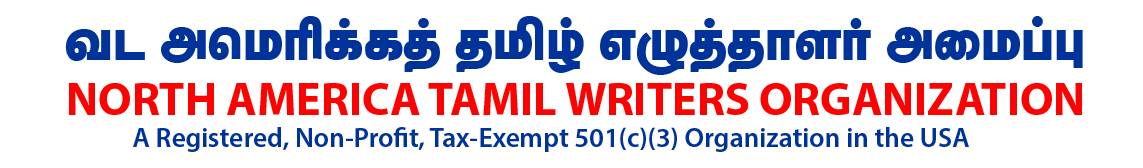
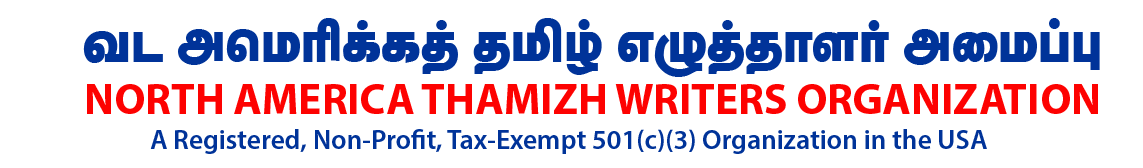
Thamizh

Changed region(s): [[0.0306, 0.0893, 0.9799, 0.6845], [0.0919, 0.744, 0.888, 0.9226]]

diff --git a/src/pages/About.tsx b/src/pages/About.tsx
@@ -96,7 +96,7 @@ export default function About() {
     {
       name: 'Dr. Arasu Chelliah',
       role: 'Global Ambassador - USA',
-      bio: 'முனைவர் அரசு செல்லையா, எழுத்தாளர், தமிழ்க் கல்வியாளர், அமெரிக்க அதிபர் விருது பெற்றவர், Founder President of American Tamil Academy, Former President of FeTNA, <strong>Maryland, USA </strong>',
+      bio: 'முனைவர் அரசு செல்லையா, எழுத்தாளர், தமிழ்க் கல்வியாளர், அமெரிக்க அதிபர் விருது பெற்றவர், Founder President of American Thamizh Academy, Former President of FeTNA, <strong>Maryland, USA </strong>',
       image: '/lovable-uploads/28.jpg',
     },
   ];
@@ -147,13 +147,13 @@ export default function About() {
     {
       name: 'Kalaimamani Dr. Cheyon I.B.S.',
       role: 'Global Ambassador - India',
-      bio: 'Former Director, All India Radio, MTS Academy, இலக்கியவாதி, தமிழ்க் கல்வியாளர், எழுத்தாளர், <strong>Tamil Nadu, India </strong>',
+      bio: 'Former Director, All India Radio, MTS Academy, இலக்கியவாதி, தமிழ்க் கல்வியாளர், எழுத்தாளர், <strong>Thamizh Nadu, India </strong>',
       image: '/lovable-uploads/22.jpg',
     },
     {
       name: 'Prof. Dr. K. Thilagavathi',
       role: 'Global Ambassador - India',
-      bio: 'Former Director / Head Tamil Cultural Center, சங்க இலக்கிய ஆராய்ச்சியாளர், உரையாளர், சங்க இலக்கியப் பொருட் களஞ்சியத்தை உருவாக்கியவர், தமிழகப் புலவர்குழு உறுப்பினர், தமிழ் வளர்ச்சிக்கழக உறுப்பினர், மயிலைத் திருவள்ளுவர் தமிழ்ச்சங்க இணைச்செயலாளர், Tamil University, Thanjavur, <strong>Tamil Nadu, India </strong>',
+      bio: 'Former Director / Head Thamizh Cultural Center, சங்க இலக்கிய ஆராய்ச்சியாளர், உரையாளர், சங்க இலக்கியப் பொருட் களஞ்சியத்தை உருவாக்கியவர், தமிழகப் புலவர்குழு உறுப்பினர், தமிழ் வளர்ச்சிக்கழக உறுப்பினர், மயிலைத் திருவள்ளுவர் தமிழ்ச்சங்க இணைச்செயலாளர், Thamizh University, Thanjavur, <strong>Thamizh Nadu, India </strong>',
       image: '/lovable-uploads/14.jpg',
     },
     {
@@ -171,13 +171,13 @@ export default function About() {
     {
       name: 'கவிஞர் விஜயகிருஷ்ணன்',
       role: 'Global Ambassador - India',
-      bio: 'நெறியாளர், தூர்தர்ஷன் தமிழ்; துணைச்செயலாளர், சென்னை கம்பன் கழகம்; வங்கியாளர்; கிராமவளர் பணியாளர், <strong>Tamil Nadu,  India</strong>',
+      bio: 'நெறியாளர், தூர்தர்ஷன் தமிழ்; துணைச்செயலாளர், சென்னை கம்பன் கழகம்; வங்கியாளர்; கிராமவளர் பணியாளர், <strong>Thamizh Nadu,  India</strong>',
       image: '/lovable-uploads/17.jpg',
     },
     {
       name: 'Dr. A. Alaguselvam (Alaguannavi)',
       role: 'Global Ambassador - India',
-      bio: 'Head, Department of Tamil, Government Arts and science college, Aruppukottai, தமிழ் மரபுக்கலைகள் பயிற்றுநர்/பரப்புநர், <strong>Tamil Nadu, India </strong>',
+      bio: 'Head, Department of Thamizh, Government Arts and science college, Aruppukottai, தமிழ் மரபுக்கலைகள் பயிற்றுநர்/பரப்புநர், <strong>Thamizh Nadu, India </strong>',
       image: '/lovable-uploads/18.jpg',
     },
     {
@@ -225,7 +225,7 @@ export default function About() {
     },
     {
       year: 2019,
-      event: 'First Annual Tamil Literary Festival',
+      event: 'First Annual Thamizh Literary Festival',
     },
     {
       year: 2020,
@@ -279,7 +279,7 @@ export default function About() {
             <div className="prose max-w-none">
               <p className="text-lg leading-relaxed">
                 {t(
-                  'Tamil literature is a bridge between the past and the future, a voice of identity, culture, and creative expression. North America Tamil Writers Organization (NATAWO) is committed to nurturing and celebrating Tamil literary traditions in North America by providing a dynamic platform for Tamil writers to express their creativity, refine their craft, and share their works with a wider audience.',
+                  'Thamizh literature is a bridge between the past and the future, a voice of identity, culture, and creative expression. North America Thamizh Writers Organization (NATAWO) is committed to nurturing and celebrating Thamizh literary traditions in North America by providing a dynamic platform for Thamizh writers to express their creativity, refine their craft, and share their works with a wider audience.',
                   'தமிழ் இலக்கியம் என்பது கடந்த காலத்திற்கும் எதிர்காலத்திற்கும் இடையேயான பாலம், அடையாளம், கலாச்சாரம் மற்றும் படைப்பாற்றல் வெளிப்பாட்டின் குரல். வட அமெரிக்க தமிழ் எழுத்தாளர்கள் அமைப்பு (நடவு) வட அமெரிக்காவில் தமிழ் இலக்கிய மரபுகளை வளர்த்து, கொண்டாடுவதற்காக அர்ப்பணிப்புடன் செயல்படுகிறது. தமிழ் எழுத்தாளர்கள் தங்கள் படைப்பாற்றலை வெளிப்படுத்தவும், தங்கள் திறமையை மெருகேற்றவும், தங்கள் படைப்புகளை பரந்த வாசகர்களுடன் பகிர்ந்து கொள்ளவும் ஒரு இயங்குமிக்க தளத்தை வழங்குகிறது.'
                 )}
               </p>
@@ -289,7 +289,7 @@ export default function About() {
               </h2>
               <p className="text-lg leading-relaxed">
                 {t(
-                  'To nurture and celebrate Tamil literature and culture in North America by inspiring a global community of Tamil writers, fostering creativity, and preserving the rich heritage of the Tamil language promotes cultural identity and literary enhancement for Tamil diaspora children.',
+                  'To nurture and celebrate Thamizh literature and culture in North America by inspiring a global community of Thamizh writers, fostering creativity, and preserving the rich heritage of the Thamizh language promotes cultural identity and literary enhancement for Thamizh diaspora children.',
                   'வட அமெரிக்காவில் தமிழ் இலக்கியம் மற்றும் கலாச்சாரத்தை வளர்த்து, கொண்டாட, உலகளாவிய தமிழ் எழுத்தாளர்கள் சமூகத்தை ஊக்குவித்து, படைப்பாற்றலை வளர்த்து, தமிழ் மொழியின் செழுமையான பாரம்பரியத்தைப் பாதுகாத்து, தமிழ் புலம்பெயர் குழந்தைகளுக்கான கலாச்சார அடையாளம் மற்றும் இலக்கிய மேம்பாட்டை ஊக்குவிப்பது.'
                 )}
               </p>
@@ -300,19 +300,19 @@ export default function About() {
               <ul className="space-y-4 list-disc pl-6">
                 <li>
                   {t(
-                    'Empower Tamil Writers: Provide a supportive platform for aspiring and established Tamil writers in North America to express their ideas, refine their craft, and achieve global recognition.',
+                    'Empower Thamizh Writers: Provide a supportive platform for aspiring and established Thamizh writers in North America to express their ideas, refine their craft, and achieve global recognition.',
                     'தமிழ் எழுத்தாளர்களை மேம்படுத்துதல்: வட அமெரிக்காவில் உள்ள ஆர்வமுள்ள மற்றும் நிலைபெற்ற தமிழ் எழுத்தாளர்கள் தங்கள் கருத்துக்களை வெளிப்படு, தங்கள் திறமையை மெருகேற்ற மற்றும் உலகளாவிய அங்கீகாரத்தைப் பெற ஆதரவான தளத்தை வழங்குதல்.'
                   )}
                 </li>
                 <li>
                   {t(
-                    'Promote Tamil Literature: Encourage the creation, dissemination, and appreciation of Tamil literary works across diverse genres and styles.',
+                    'Promote Thamizh Literature: Encourage the creation, dissemination, and appreciation of Thamizh literary works across diverse genres and styles.',
                     'தமிழ் இலக்கியத்தை ஊக்குவித்தல்: பல்வேறு வகைகள் மற்றும் பாணிகளில் தமிழ் இலக்கியப் படைப்புகளின் உருவாக்கம், பரவல் மற்றும் பாராட்டுதலை ஊக்குவித்தல்.'
                   )}
                 </li>
                 <li>
                   {t(
-                    'Preserve Heritage: Uphold the timeless traditions and values of Tamil language and culture while adapting to contemporary themes and expressions.',
+                    'Preserve Heritage: Uphold the timeless traditions and values of Thamizh language and culture while adapting to contemporary themes and expressions.',
                     'பாரம்பரியத்தைப் பாதுகாத்தல்: சமகால கருப்பொருள்கள் மற்றும் வெளிப்பாடுகளுக்கு ஏற்ப மாறும் அதே வேளையில் தமிழ் மொழி மற்றும் கலாச்சாரத்தின் காலத்தால் அழியாத மரபுகள் மற்றும் மதிப்புகளைப் பேணுதல்.'
                   )}
                 </li>
@@ -324,7 +324,7 @@ export default function About() {
                 </li>
                 <li>
                   {t(
-                    'Bridge Generations: Inspire younger generations to embrace Tamil as a medium of creativity, writing and cultural expression through innovative programs and mentorship opportunities. Be a bridge between Tamil Writers and North American literary publishers and libraries to bring the Tamil language into the mainstream in North America.',
+                    'Bridge Generations: Inspire younger generations to embrace Thamizh as a medium of creativity, writing and cultural expression through innovative programs and mentorship opportunities. Be a bridge between Thamizh Writers and North American literary publishers and libraries to bring the Thamizh language into the mainstream in North America.',
                     'தலைமுறைகளை இணைத்தல்: புத்தாக்க திட்டங்கள் மற்றும் வழிகாட்டல் வாய்ப்புகள் மூலம் இளைய தலைமுறையினர் தமிழை படைப்பாற்றல், எழுது மற்றும் கலாச்சார வெளிப்பாட்டின் ஊடகமாக ஏற்றுக்கொள்ள ஊக்குவித்தல். வட அமெரிக்காவில் தமிழ் மொழியை முக்கிய நீரோட்டத்திற்கு கொண்டு வர தமிழ் எழுத்தாளர்களுக்கும் வட அமெரிக்க இலக்கிய பதிப்பகங்கள் மற்றும் நூலகங்களுக்கும் இடையே பாலமாக இருத்தல்.'
                   )}
                 </li>
@@ -349,7 +349,7 @@ export default function About() {
               </h3>
               <p className="text-lg leading-relaxed">
                 {t(
-                  'NATAWO is a non-profit, non-partisan, and secular organization dedicated to promoting Tamil literary expression, education, and cultural identity in North America. We aim to provide Tamil writers with the resources, opportunities, and networks they need to thrive in a global literary environment.',
+                  'NATAWO is a non-profit, non-partisan, and secular organization dedicated to promoting Thamizh literary expression, education, and cultural identity in North America. We aim to provide Thamizh writers with the resources, opportunities, and networks they need to thrive in a global literary environment.',
                   'நடவு என்பது வட அமெரிக்காவில் தமிழ் இலக்கிய வெளிப்பாடு, கல்வி மற்றும் கலாச்சார அடையாளத்தை மேம்படுத்துவதற்காக அர்ப்பணிக்கப்பட்ட இலாப நோக்கற்ற, கட்சி சார்பற்ற மற்றும் மதச்சார்பற்ற அமைப்பாகும். உலகளாவிய இலக்கியச் சூழலில் செழிக்க தமிழ் எழுத்தாளர்கள் சமூகத்தை ஊக்குவித்து, படைப்பாற்றலை வளர்த்து, தமிழ் மொழியை மெருகேற்ற மற்றும் உலகளாவிய அங்கீகாரத்தைப் பெற ஆதரவான தளத்தை வழங்குதல்.'
                 )}
               </p>
@@ -361,7 +361,7 @@ export default function About() {
               </h3>
               <p className="text-lg leading-relaxed">
                 {t(
-                  "NATAWO is led by a dedicated Board of Coordinators, Bylaws Committee and Global Ambassadors composed of Tamil writers, scholars, educators, and community leaders. The leadership team is responsible for shaping the organization's strategic direction, ensuring financial transparency, and fostering a culture of inclusivity and innovation.",
+                  "NATAWO is led by a dedicated Board of Coordinators, Bylaws Committee and Global Ambassadors composed of Thamizh writers, scholars, educators, and community leaders. The leadership team is responsible for shaping the organization's strategic direction, ensuring financial transparency, and fostering a culture of inclusivity and innovation.",
                   'நடவு அமைப்பானது தமிழ் எழுத்தாளர்கள், அறிஞர்கள், கல்வியாளர்கள் மற்றும் சமூகத் தலைவர்களைக் கொண்ட அர்ப்பணிப்புள்ள ஒருங்கிணைப்பாளர்கள் குழு, விதிமுறைகள் குழு மற்றும் உலகளாவிய தூதுவர்களால் வழிநடத்தப்படுகிறது. அமைப்பின் மூலோபாய திசையை வடிவமைப்பது, நிதி வெளிப்படைத்தன்மையை உறுதி செய்வது மற்றும் உள்ளடக்கம் மற்றும் புத்தாக்கக் கலாச்சாரத்தை வளர்ப்பது தலைமைக் குழுவின் பொறுப்பாகும்.'
                 )}
               </p>
@@ -380,7 +380,7 @@ export default function About() {
                     </h4>
                     <p>
                       {t(
-                        'Encouraging diverse forms of Tamil literary expression.',
+                        'Encouraging diverse forms of Thamizh literary expression.',
                         'தமிழ் இலக்கிய வெளிப்பாட்டின் பல்வேறு வடிவங்களை ஊக்குவித்தல்.'
                       )}
                     </p>
@@ -395,7 +395,7 @@ export default function About() {
                     </h4>
                     <p>
                       {t(
-                        'Safeguarding and promoting Tamil literary heritage.',
+                        'Safeguarding and promoting Thamizh literary heritage.',
                         'தமிழ் இலக்கிய பாரம்பரியத்தைப் பாதுகாத்து மேம்படுத்துதல்.'
                       )}
                     </p>
@@ -425,7 +425,7 @@ export default function About() {
                     </h4>
                     <p>
                       {t(
-                        'Welcoming Tamil writers from all backgrounds and experiences.',
+                        'Welcoming Thamizh writers from all backgrounds and experiences.',
                         'அனைத்து பின்னணி மற்றும் அனுபவங்களைக் கொண்ட தமிழ் எழுத்தாளர்களை வரவேற்றல்.'
                       )}
                     </p>
@@ -440,7 +440,7 @@ export default function About() {
                     </h4>
                     <p>
                       {t(
-                        'Using modern platforms to enhance Tamil literary engagement.',
+                        'Using modern platforms to enhance Thamizh literary engagement.',
                         'தமிழ் இலக்கிய ஈடுபாட்டை மேம்படுத்த நவீன தளங்களைப் பயன்படுத்துதல்.'
                       )}
                     </p>
@@ -463,19 +463,19 @@ export default function About() {
               <div>
                 <h3 className="text-xl font-semibold mb-4">
                   {t(
-                    'A Legacy Rooted in Tamil Literary Passion',
+                    'A Legacy Rooted in Thamizh Literary Passion',
                     'தமிழ் இலக்கிய ஆர்வத்தில் வேரூன்றிய மரபு'
                   )}
                 </h3>
                 <p className="text-lg leading-relaxed">
                   {t(
-                    'Tamil literature has thrived for over 2,000 years, evolving through poetry, epics, short stories, and modern storytelling. As Tamil communities flourished in North America, writers sought a dedicated space to share their work, collaborate, and find publishing opportunities.',
+                    'Thamizh literature has thrived for over 2,000 years, evolving through poetry, epics, short stories, and modern storytelling. As Thamizh communities flourished in North America, writers sought a dedicated space to share their work, collaborate, and find publishing opportunities.',
                     'தமிழ் இலக்கியம் 2,000 ஆண்டுகளுக்கும் மேலாக கவிதை, காவியங்கள், சிறுகதைகள் மற்றும் நவீன கதை சொல்லல் வழியாக வளர்ந்து வந்துள்ளது. வட அமெரிக்காவில் தமிழ் சமூகங்கள் செழித்தோங்கியதால், எழுத்தாளர்கள் தங்கள் படைப்புகளைப் பகிர்ந்து கொள்ள, ஒத்துழைக்க மற்றும் பதிப்பிக்கும் வாய்ப்புகளைக் கண்டறிய ஒரு அர்ப்பணிக்கப்பட்ட இடத்தைத் தேடினர்.'
                   )}
                 </p>
                 <p className="text-lg leading-relaxed mt-4">
                   {t(
-                    'Recognizing this need, a group of passionate Tamil literary enthusiasts founded North America Tamil Writers Incorporated to provide a structured platform for Tamil writers. Since its inception, NATAWO has grown into a respected institution, hosting literary events, mentorship programs, and collaborations that celebrate Tamil storytelling.',
+                    'Recognizing this need, a group of passionate Thamizh literary enthusiasts founded North America Thamizh Writers Incorporated to provide a structured platform for Thamizh writers. Since its inception, NATAWO has grown into a respected institution, hosting literary events, mentorship programs, and collaborations that celebrate Thamizh storytelling.',
                     'இந்த தேவையை உணர்ந்து, ஆர்வமுள்ள தமிழ் இலக்கிய ஆர்வலர்கள் குழு தமிழ் எழுத்தாளர்களுக்கு ஒரு கட்டமைக்கப்பட்ட தளத்தை வழங்க வட அமெரிக்க தமிழ் எழுத்தாளர்கள் நிறுவனத்தை நிறுவினர். தொடக்கம் முதல், நடவு தமிழ் கதை சொல்லலைக் கொண்டாடும் இலக்கிய நிகழ்வுகள், வழிகாட்டல் திட்டங்கள் மற்றும் கூட்டு முயற்சிகளை நடத்தும் மதிப்புமிக்க நிறுவனமாக வளர்ந்துள்ளது.'
                   )}
                 </p>
@@ -487,7 +487,7 @@ export default function About() {
                 </h3>
                 <h4 className="text-xl font-medium mb-4">
                   {t(
-                    'The Birth of NATAWO: Uniting Tamil Writers Across North America',
+                    'The Birth of NATAWO: Uniting Thamizh Writers Across North America',
                     'நடவு-வின் பிறப்பு: வட அமெரிக்கா முழுவதும் தமிழ் எழுத்தாளர்களை ஒன்றிணைத்தல்'
                   )}
                 </h4>
@@ -500,26 +500,26 @@ export default function About() {
                 <blockquote className="border-l-4 border-primary pl-4 mb-6">
                   <p className="text-lg font-medium">
                     {t(
-                      '"How can we create a lasting impact on Tamil literature in North America?"',
+                      '"How can we create a lasting impact on Thamizh literature in North America?"',
                       '"வட அமெரிக்காவில் தமிழ் இலக்கியத்தில் நிலையான தாக்கத்தை எவ்வாறு உருவாக்க முடியும்?"'
                     )}
                   </p>
                 </blockquote>
                 <p className="text-lg leading-relaxed">
                   {t(
-                    'A group of dedicated Tamil writers, scholars, and educators came together to find the answer. They shared a common vision—to create a community-driven platform that nurtures Tamil literary talent while promoting the rich heritage of Tamil literature in a globalized world.',
+                    'A group of dedicated Thamizh writers, scholars, and educators came together to find the answer. They shared a common vision—to create a community-driven platform that nurtures Thamizh literary talent while promoting the rich heritage of Thamizh literature in a globalized world.',
                     'அர்ப்பணிப்புள்ள தமிழ் எழுத்தாளர்கள், அறிஞர்கள் மற்றும் கல்வியாளர்கள் குழு பதிலைக் கண்டறிய ஒன்றிணைந்தனர். உலகமயமாக்கப்பட்ட உலகில் தமிழ் இலக்கியத்தின் செழுமையான பாரம்பரியத்தை மேம்படுத்தும் அதே வேளையில் தமிழ் இலக்கியத் திறமையை வளர்க்கும் சமூகம் சார்ந்த தளத்தை உருவாக்குவது என்ற பொதுவான பார்வையை அவர்கள் பகிர்ந்து கொண்டனர்.'
                   )}
                 </p>
                 <p className="text-lg leading-relaxed mt-4">
                   {t(
-                    'Through countless discussions, planning sessions, and collaborations, North America Tamil Writers Incorporated was officially formed as a non-profit literary organization with a commitment to fostering Tamil creativity.',
+                    'Through countless discussions, planning sessions, and collaborations, North America Thamizh Writers Incorporated was officially formed as a non-profit literary organization with a commitment to fostering Thamizh creativity.',
                     'எண்ணற்ற விவாதங்கள், திட்டமிடல் அமர்வுகள் மற்றும் கூட்டு முயற்சிகள் மூலம், தமிழ் படைப்பாற்றலை வளர்ப்பதற்கான அர்ப்பணிப்புடன் வட அமெரிக்க தமிழ் எழுத்தாளர்கள் நிறுவனம் அதிகாரப்பூர்வமாக இலாப நோக்கற்ற இலக்கிய அமைப்பாக உருவாக்கப்பட்டது.'
                   )}
                 </p>
                 <p className="text-lg leading-relaxed mt-4">
                   {t(
-                    'Today, NATAWO stands as a pioneering force in Tamil literary development, bridging generations, cultures, and geographies through literature.',
+                    'Today, NATAWO stands as a pioneering force in Thamizh literary development, bridging generations, cultures, and geographies through literature.',
                     'இன்று, நடவு தமிழ் இலக்கிய வளர்ச்சியில் முன்னோடி சக்தியாக நின்று, இலக்கியம் வழியாக தலைமுறைகள், கலாச்சாரங்கள் மற்றும் புவியியல்களை இணைக்கிறது.'
                   )}
                 </p>
@@ -838,14 +838,14 @@ export default function About() {
                     <li className="flex gap-2">
                       <Check className="text-green-600 mt-1" />
                       {t(
-                        'Invitations to Tamil literary events, festivals, and competitions.',
+                        'Invitations to Thamizh literary events, festivals, and competitions.',
                         'தமிழ் இலக்கிய நிகழ்வுகள், விழாக்கள் மற்றும் போட்டிகளுக்கான அழைப்புகள்.'
                       )}
                     </li>
                     <li className="flex gap-2">
                       <Check className="text-green-600 mt-1" />
                       {t(
-                        'Networking with Tamil writers, publishers, and scholars.',
+                        'Networking with Thamizh writers, publishers, and scholars.',
                         'தமிழ் எழுத்தாளர்கள், பதிப்பகங்கள் மற்றும் அறிஞர்களுடன் நெட்வொர்க்கிங்.'
                       )}
                     </li>

diff --git a/src/pages/Guidelines.tsx b/src/pages/Guidelines.tsx
@@ -18,7 +18,7 @@ export default function Guidelines() {
         <div className="mb-8">
           <p>
             {t(
-              "The North America Tamil Writers Organization (NATAWO) website serves as a community platform for Tamil writers, literary enthusiasts, and scholars. To maintain a respectful and constructive environment, users must adhere to the following guidelines when engaging in discussions, forums, and contributions.",
+              "The North America Thamizh Writers Organization (NATAWO) website serves as a community platform for Thamizh writers, literary enthusiasts, and scholars. To maintain a respectful and constructive environment, users must adhere to the following guidelines when engaging in discussions, forums, and contributions.",
               "வட அமெரிக்க தமிழ் எழுத்தாளர்கள் அமைப்பின் (NATAWO) வலைத்தளம் தமிழ் எழுத்தாளர்கள், இலக்கிய ஆர்வலர்கள் மற்றும் அறிஞர்களுக்கான சமூக தளமாக செயல்படுகிறது. மரியாதையான மற்றும் ஆக்கபூர்வமான சூழலை பராமரிக்க, விவாதங்கள், மன்றங்கள் மற்றும் பங்களிப்புகளில் ஈடுபடும்போது பயனர்கள் பின்வரும் வழிகாட்டுதல்களைப் பின்பற்ற வேண்டும்."
             )}
           </p>
@@ -56,7 +56,7 @@ export default function Guidelines() {
             </li>
             <li>
               {t(
-                "Respect cultural diversity and Tamil literary heritage in discussions",
+                "Respect cultural diversity and Thamizh literary heritage in discussions",
                 "விவாதங்களில் கலாச்சார பன்முகத்தன்மையையும் தமிழ் இலக்கிய பாரம்பரியத்தையும் மதிக்கவும்"
               )}
             </li>
@@ -89,7 +89,7 @@ export default function Guidelines() {
             </li>
             <li>
               {t(
-                "Discussions must align with the mission of NATAWO (Tamil literature, writing, culture)",
+                "Discussions must align with the mission of NATAWO (Thamizh literature, writing, culture)",
                 "விவாதங்கள் NATAWO இன் நோக்கத்துடன் (தமிழ் இலக்கியம், எழுத்து, கலாச்சாரம்) ஒத்துப்போக வேண்டும்"
               )}
             </li>
@@ -134,7 +134,7 @@ export default function Guidelines() {
             </li>
             <li>
               {t(
-                "Respect Tamil Language: If posting in Tamil, ensure correct spelling and readability",
+                "Respect Thamizh Language: If posting in Thamizh, ensure correct spelling and readability",
                 "தமிழ் மொழியை மதிக்கவும்: தமிழில் பதிவிடும்போது, சரியான எழுத்து மற்றும் வாசிப்புத்திறனை உறுதிப்படுத்தவும்"
               )}
             </li>

diff --git a/src/pages/Privacy.tsx b/src/pages/Privacy.tsx
@@ -17,7 +17,7 @@ export default function Privacy() {
         <div className="mb-6">
           <p className="text-lg font-medium">
             {t(
-              "North America Tamil Writers Organization (NATAWO)",
+              "North America Thamizh Writers Organization (NATAWO)",
               "வட அமெரிக்க தமிழ் எழுத்தாளர்கள் அமைப்பு (NATAWO)"
             )}
           </p>
@@ -33,7 +33,7 @@ export default function Privacy() {
           <div className="space-y-4">
             <p>
               {t(
-                "North America Tamil Writers Organization (NATAWO) respects your privacy and is committed to protecting your personal information. This Privacy Policy outlines how we collect, use, disclose, and protect your data when you access our website, engage in forums, or participate in our programs.",
+                "North America Thamizh Writers Organization (NATAWO) respects your privacy and is committed to protecting your personal information. This Privacy Policy outlines how we collect, use, disclose, and protect your data when you access our website, engage in forums, or participate in our programs.",
                 "வட அமெரிக்க தமிழ் எழுத்தாளர்கள் அமைப்பு (NATAWO) உங்கள் தனியுரிமையை மதிக்கிறது மற்றும் உங்கள் தனிப்பட்ட தகவல்களைப் பாதுகாக்க உறுதிபூண்டுள்ளது. நீங்கள் எங்கள் வலைத்தளத்தை அணுகும்போது, மன்றங்களில் ஈடுபடும்போது அல்லது எங்கள் நிகழ்ச்சிகளில் பங்கேற்கும்போது உங்கள் தரவை எவ்வாறு சேகரிக்கிறோம், பயன்படுத்துகிறோம், வெளிப்படுத்துகிறோம் மற்றும் பாதுகாக்கிறோம் என்பதை இந்த தனியுரிமைக் கொள்கை விவரிக்கிறது."
               )}
             </p>

diff --git a/src/pages/Terms.tsx b/src/pages/Terms.tsx
@@ -17,7 +17,7 @@ export default function Terms() {
         <div className="mb-6">
           <p className="text-lg font-medium">
             {t(
-              "North America Tamil Writers Organization (NATAWO)",
+              "North America Thamizh Writers Organization (NATAWO)",
               "வட அமெரிக்க தமிழ் எழுத்தாளர்கள் அமைப்பு (NATAWO)"
             )}
           </p>
@@ -33,7 +33,7 @@ export default function Terms() {
           {/* Introduction */}
           <p>
             {t(
-              "Welcome to the North America Tamil Writers Organization (NATAWO) website. These Terms of Use govern your access and use of our website, forums, and related services. By using our website, you agree to these terms. If you do not agree, please discontinue use of our services.",
+              "Welcome to the North America Thamizh Writers Organization (NATAWO) website. These Terms of Use govern your access and use of our website, forums, and related services. By using our website, you agree to these terms. If you do not agree, please discontinue use of our services.",
               "வட அமெரிக்க தமிழ் எழுத்தாளர்கள் அமைப்ப���ன் (NATAWO) வலைத்தளத்திற்கு வரவேற்கிறோம். இந்த பயன்பாட்டு விதிமுறைகள் எங்கள் வலைத்தளம், மன்றங்கள் மற்றும் தொடர்புடைய சேவைகளை அணுகுவதையும் பயன்படுத்துவதையும் நிர்வகிக்கின்றன. எங்கள் வலைத்தளத்தைப் பயன்படுத்துவதன் மூலம், இந்த விதிமுறைகளுக்கு நீங்கள் ஒப்புக்கொள்கிறீர்கள். நீங்கள் ஒப்புக்கொள்ளவில்லை என்றால், எங்கள் சேவைகளைப் பயன்படுத்துவதை நிறுத்தவும்."
             )}
           </p>

diff --git a/index.html b/index.html
@@ -4,16 +4,16 @@
     <meta charset="UTF-8" />
     <link rel="icon" type="image/png" href="/favicon.ico" />
     <meta name="viewport" content="width=device-width, initial-scale=1.0" />
-    <title>NATAWO - North America Tamil Writers Organization</title>
+    <title>NATAWO - North America Thamizh Writers Organization</title>
     <meta
       name="description"
-      content="North America Tamil Writers Organization - Connecting Tamil writers and readers across North America"
+      content="North America Thamizh Writers Organization - Connecting Thamizh writers and readers across North America"
     />
     <meta name="author" content="NATAWO" />
     <meta property="og:title" content="NATAWO" />
     <meta
       property="og:description"
-      content="North America Tamil Writers Organization - Connecting Tamil writers and readers across North America"
+      content="North America Thamizh Writers Organization - Connecting Thamizh writers and readers across North America"
     />
     <meta property="og:image" content="/lovable-uploads/logo.png" />
     <base href="/" />

diff --git a/src/pages/Auth.tsx b/src/pages/Auth.tsx
@@ -53,7 +53,7 @@ export default function Auth() {
       <Card className="max-w-md mx-auto">
         <CardHeader>
           <CardTitle>Welcome to NATAWO</CardTitle>
-          <CardDescription>Join our community of Tamil writers and readers</CardDescription>
+          <CardDescription>Join our community of Thamizh writers and readers</CardDescription>
         </CardHeader>
         <CardContent>
           <Tabs value={activeTab} onValueChange={(value: 'signin' | 'signup') => setActiveTab(value)} className="w-full">
